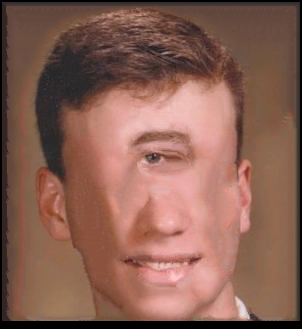
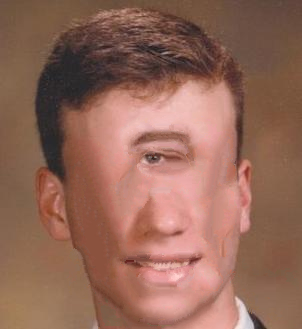
Fixing general boundary bug, but the bug with the bottom few rows still persists

diff --git a/ImageAnalogies.py b/ImageAnalogies.py
@@ -1,7 +1,6 @@
 """
 Programmer: Chris Tralie
-Purpose: To implement the basic features of Image Analogies[1] in Python,
-using exact nearest neighbors (pyflann would be faster, but has trouble with Python3)
+Purpose: To implement the basic features of Image Analogies[1] in Python
 
 Image Analogies
 A. Hertzmann, C. Jacobs, N. Oliver, B. Curless, D. Salesin.
@@ -136,12 +135,13 @@ def get_causal_patches(I, dim, i, j):
 
 
 def get_zeropadded_patch(img, i, j, d):
-    res = img[max(0, i-d):i+d+1, max(0, j-d):j+d+1]
-    di = 2*d + 1 - res.shape[0]
-    dj = 2*d + 1 - res.shape[1]
-    if di > 0 or dj > 0:
-        res = np.pad(res, ((0, di), (0, dj)))
-    return res
+    ## TODO: Make this faster
+    ret = np.zeros((2*d+1, 2*d+1))
+    for di in range(-d, d+1):
+        for dj in range(-d, d+1):
+            if i+di >= 0 and i + di < img.shape[0] and j + dj >= 0 and j + dj < img.shape[1]:
+                ret[di+d, dj+d] = img[i+di, j+dj]
+    return ret
 
 
 def get_coherence_match(x0, AL, ApL, A2, Ap2, BpLidx, dim, i, j):
